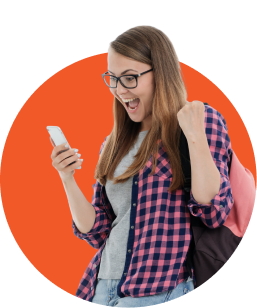
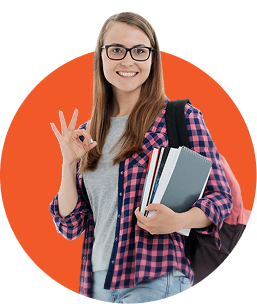
feat: create component form input, create screen onboarding
handle validation: still only on active inactive, show hide icon

diff --git a/ostudy/frontend/lib/presentation/core/components/form_input.dart b/ostudy/frontend/lib/presentation/core/components/form_input.dart
@@ -1,0 +1,97 @@
+import 'package:flutter/material.dart';
+import 'package:ostudy/presentation/core/utils/app_colors.dart';
+import 'package:ostudy/presentation/core/utils/app_textstyles.dart';
+
+class CustomFormInput extends StatefulWidget {
+  final String hintText;
+  final bool isPassword;
+  final double? width;
+  final double? height;
+
+  const CustomFormInput({
+    super.key,
+    required this.hintText,
+    this.isPassword = false,
+    this.width,
+    this.height,
+  });
+
+  @override
+  State<CustomFormInput> createState() => _CustomFormInputState();
+}
+
+class _CustomFormInputState extends State<CustomFormInput> {
+  final FocusNode _focusNode = FocusNode();
+  bool _isFocused = false;
+  bool _obscureText = true;
+
+  @override
+  void initState() {
+    super.initState();
+    _focusNode.addListener(() {
+      setState(() {
+        _isFocused = _focusNode.hasFocus;
+      });
+    });
+  }
+
+  @override
+  void dispose() {
+    _focusNode.dispose();
+    super.dispose();
+  }
+
+  void _toggleVisibility() {
+    setState(() {
+      _obscureText = !_obscureText;
+    });
+  }
+
+  @override
+  Widget build(BuildContext context) {
+    return AnimatedContainer(
+      width: widget.width,
+      height: widget.height,
+      duration: const Duration(milliseconds: 200),
+      decoration: BoxDecoration(
+        color: AppColors.white(),
+        borderRadius: BorderRadius.circular(8),
+      ),
+      child: SizedBox.expand(
+        child: TextField(
+          focusNode: _focusNode,
+          obscureText: widget.isPassword ? _obscureText : false,
+          decoration: InputDecoration(
+            hintText: widget.hintText,
+            hintStyle: ParagraphBody.smallRegular,
+            filled: true,
+            fillColor: Colors.white,
+            enabledBorder: OutlineInputBorder(
+              borderRadius: BorderRadius.circular(8),
+              borderSide: const BorderSide(color: NeutralColors.black100),
+            ),
+            focusedBorder: OutlineInputBorder(
+              borderRadius: BorderRadius.circular(8),
+              borderSide:
+                  const BorderSide(color: AppColors.orange200, width: 2),
+            ),
+            contentPadding:
+                const EdgeInsets.symmetric(vertical: 14, horizontal: 16),
+            suffixIcon: widget.isPassword
+                ? IconButton(
+                    icon: Icon(
+                      _obscureText
+                          ? Icons.visibility_off
+                          : Icons.visibility,
+                      color:
+                          _isFocused ? Colors.grey[800] : Colors.grey[400],
+                    ),
+                    onPressed: _toggleVisibility,
+                  )
+                : null,
+          ),
+        ),
+      ),
+    );
+  }
+}

diff --git a/ostudy/frontend/lib/presentation/screen/boarding/boarding_fourth.dart b/ostudy/frontend/lib/presentation/screen/boarding/boarding_fourth.dart
@@ -1,10 +1,74 @@
 import 'package:flutter/material.dart';
+import 'package:ostudy/presentation/core/components/bottomsheet_onboarding.dart';
+import 'package:ostudy/presentation/core/utils/app_colors.dart';
+import 'package:ostudy/presentation/core/utils/app_textstyles.dart';
+import 'package:ostudy/presentation/core/utils/app_transition.dart';
+import 'package:ostudy/presentation/screen/auth/login/login_screen.dart';
+import 'package:ostudy/presentation/screen/boarding/boarding_fifth.dart';
 
 class BoardingFourthScreen extends StatelessWidget {
   const BoardingFourthScreen({super.key});
 
   @override
   Widget build(BuildContext context) {
-    return const Scaffold();
+    void _navigateToPage(Widget page) {
+      Navigator.push(
+        context,
+        TransitionPage(page: page),
+      );
+    }
+
+    final size = MediaQuery.of(context).size;
+
+    return Scaffold(
+      body: Container(
+        height: size.height,
+        width: size.width,
+        decoration: const BoxDecoration(
+          gradient: GradientColors.lightGradient,
+        ),
+        child: Column(
+          children: [
+            Padding(
+              padding: const EdgeInsets.only(top: 72, left: 24, right: 24),
+              child: Row(
+                mainAxisAlignment: MainAxisAlignment.spaceBetween,
+                children: [
+                  Image.asset('assets/images/logo-text.png',
+                      width: 75, height: 50),
+                  TextButton(
+                    onPressed: () {
+                      _navigateToPage(const LoginScreen());
+                    },
+                    child: Text(
+                      "Skip",
+                      style: ParagraphBody.mediumRegular,
+                    ),
+                  ),
+                ],
+              ),
+            ),
+            const SizedBox(height: 24),
+            Expanded(
+              flex: 5,
+              child: Padding(
+                padding: const EdgeInsets.symmetric(horizontal: 16),
+                child: Image.asset(
+                  'assets/images/onboarding.png',
+                ),
+              ),
+            ),
+            BottomSheetOnBoarding(
+              headerText: "Begin Your Learning \nAdventure",
+              subHeaderText:
+                  "Tailor-Made Courses, Expert Instructors, and a World of Knowledge Awaits You at OStudy",
+              onButtonPressed: () {
+                _navigateToPage(const BoardingFifthScreen());
+              },
+            ),
+          ],
+        ),
+      ),
+    );
   }
 }

diff --git a/ostudy/frontend/lib/presentation/screen/boarding/boarding_fifth.dart b/ostudy/frontend/lib/presentation/screen/boarding/boarding_fifth.dart
@@ -4,10 +4,9 @@ import 'package:ostudy/presentation/core/utils/app_colors.dart';
 import 'package:ostudy/presentation/core/utils/app_textstyles.dart';
 import 'package:ostudy/presentation/core/utils/app_transition.dart';
 import 'package:ostudy/presentation/screen/auth/login/login_screen.dart';
-import 'package:ostudy/presentation/screen/boarding/boarding_fourth.dart';
 
-class BoardingThirdScreen extends StatelessWidget {
-  const BoardingThirdScreen({super.key});
+class BoardingFifthScreen extends StatelessWidget {
+  const BoardingFifthScreen({super.key});
 
   @override
   Widget build(BuildContext context) {
@@ -17,7 +16,6 @@ class BoardingThirdScreen extends StatelessWidget {
         TransitionPage(page: page),
       );
     }
-
     final size = MediaQuery.of(context).size;
 
     return Scaffold(
@@ -46,24 +44,32 @@ class BoardingThirdScreen extends StatelessWidget {
                 ],
               ),
             ),
+
             const SizedBox(height: 24),
+
             Expanded(
               flex: 5,
               child: Padding(
                 padding: const EdgeInsets.symmetric(horizontal: 16),
                 child: Image.asset(
-                  'assets/images/onboarding1.png',
+                  'assets/images/onboarding2.png',
                 ),
               ),
             ),
+
             BottomSheetOnBoarding(
-              headerText: "Your Gateway to \nKnowledge",
+              headerText: "Unlock Your Potential \nwith OStudy",
               subHeaderText:
-                  "Discover, Engage, and Achieve Your Educational Goals with Our Innovative Online Platform.",
+                  "Personalized Courses, Expert Guidance, and a Community to Support Your Educational Aspirations.",
               onButtonPressed: () {
-                _navigateToPage(const BoardingFourthScreen());
+                Navigator.push(
+                  context,
+                  MaterialPageRoute(
+                    builder: (context) => const LoginScreen(),
+                  ),
+                );
               },
-            )
+            ),
           ],
         ),
       ),

diff --git a/ostudy/frontend/lib/presentation/core/utils/app_transition.dart b/ostudy/frontend/lib/presentation/core/utils/app_transition.dart
@@ -1,0 +1,24 @@
+import 'package:flutter/material.dart';
+
+class TransitionPage extends PageRouteBuilder {
+  final Widget page;
+
+  TransitionPage({required this.page})
+      : super(
+          pageBuilder: (context, animation, secondaryAnimation) => page,
+          transitionsBuilder: (context, animation, secondaryAnimation, child) {
+            const begin = Offset(1, 0);
+            const end = Offset.zero;
+            const curve = Curves.easeOut;
+
+            var tween = Tween(begin: begin, end: end).chain(CurveTween(curve: curve));
+            var offsetAnimation = animation.drive(tween);
+
+            return SlideTransition(
+              position: offsetAnimation,
+              child: child,
+            );
+          },
+          transitionDuration: const Duration(milliseconds: 600),
+        );
+}

diff --git a/ostudy/frontend/lib/presentation/core/utils/app_colors.dart b/ostudy/frontend/lib/presentation/core/utils/app_colors.dart
@@ -11,6 +11,8 @@ class AppColors {
   static const Color orange700 = Color(0xFFAB3F1D);
   static const Color orange800 = Color(0xFF853117);
   static const Color orange900 = Color(0xFF652511);
+
+  static white() {}
 }
 
 class NeutralColors {
@@ -39,4 +41,10 @@ class GradientColors {
     begin: Alignment.bottomCenter,
     end: Alignment.topCenter,
   );
+}
+
+class ValidationFormColors{
+  static const Color shadowActive = Color(0xF9B39D69);
+  static const Color shadowWrong = Color(0x00ec778d);
+  static const Color wrongColor = Color (0xDF1C4126);
 }

diff --git a/ostudy/frontend/lib/presentation/screen/auth/login/login_screen.dart b/ostudy/frontend/lib/presentation/screen/auth/login/login_screen.dart
@@ -1,0 +1,18 @@
+import 'package:flutter/material.dart';
+import 'package:ostudy/presentation/core/components/form_input.dart';
+
+class LoginScreen extends StatefulWidget {
+  const LoginScreen({super.key});
+
+  @override
+  State<LoginScreen> createState() => _LoginScreenState();
+}
+
+class _LoginScreenState extends State<LoginScreen> {
+  @override
+  Widget build(BuildContext context) {
+    return const Scaffold(
+      body: Center(child: CustomFormInput(hintText: 'Ex : Johndoe@gmail.com', width: 350, height: 100,)),
+    );
+  }
+}

diff --git a/ostudy/frontend/lib/presentation/core/components/bottomsheet_onboarding.dart b/ostudy/frontend/lib/presentation/core/components/bottomsheet_onboarding.dart
@@ -26,7 +26,7 @@ class BottomSheetOnBoarding extends StatelessWidget {
         ),
       ),
       padding: const EdgeInsets.all(16),
-      height: 220,
+      height: 250,
       child: Column(
         crossAxisAlignment: CrossAxisAlignment.start,
         children: [

diff --git a/ostudy/backend/internal/controller/user_controller.go b/ostudy/backend/internal/controller/user_controller.go
@@ -8,7 +8,7 @@ import (
     "github.com/gin-gonic/gin"
 )
 
-// GetUsers - Handles GET /users endpoint to retrieve all users.
+// GetAllUsers
 func GetUsers(c *gin.Context) {
     users, err := repositories.GetAllUsers()
     if err != nil {
@@ -18,7 +18,7 @@ func GetUsers(c *gin.Context) {
     c.JSON(http.StatusOK, users)
 }
 
-// CreateUser - Handles POST /users endpoint to create a new user.
+// CreateUser
 func CreateUser(c *gin.Context) {
     var user model.User
     if err := c.ShouldBindJSON(&user); err != nil {
@@ -34,7 +34,7 @@ func CreateUser(c *gin.Context) {
     c.JSON(http.StatusCreated, gin.H{"message": "User created successfully"})
 }
 
-// UpdateUser - Handles PUT /users/:id endpoint to update a user.
+// UpdateUser 
 func UpdateUser(c *gin.Context) {
     id := c.Param("id")
     var user model.User
@@ -51,7 +51,7 @@ func UpdateUser(c *gin.Context) {
     c.JSON(http.StatusOK, gin.H{"message": "User updated successfully"})
 }
 
-// DeleteUser - Handles DELETE /users/:id endpoint to delete a user.
+// DeleteUser 
 func DeleteUser(c *gin.Context) {
     id := c.Param("id")
     err := repositories.DeleteUser(id)
